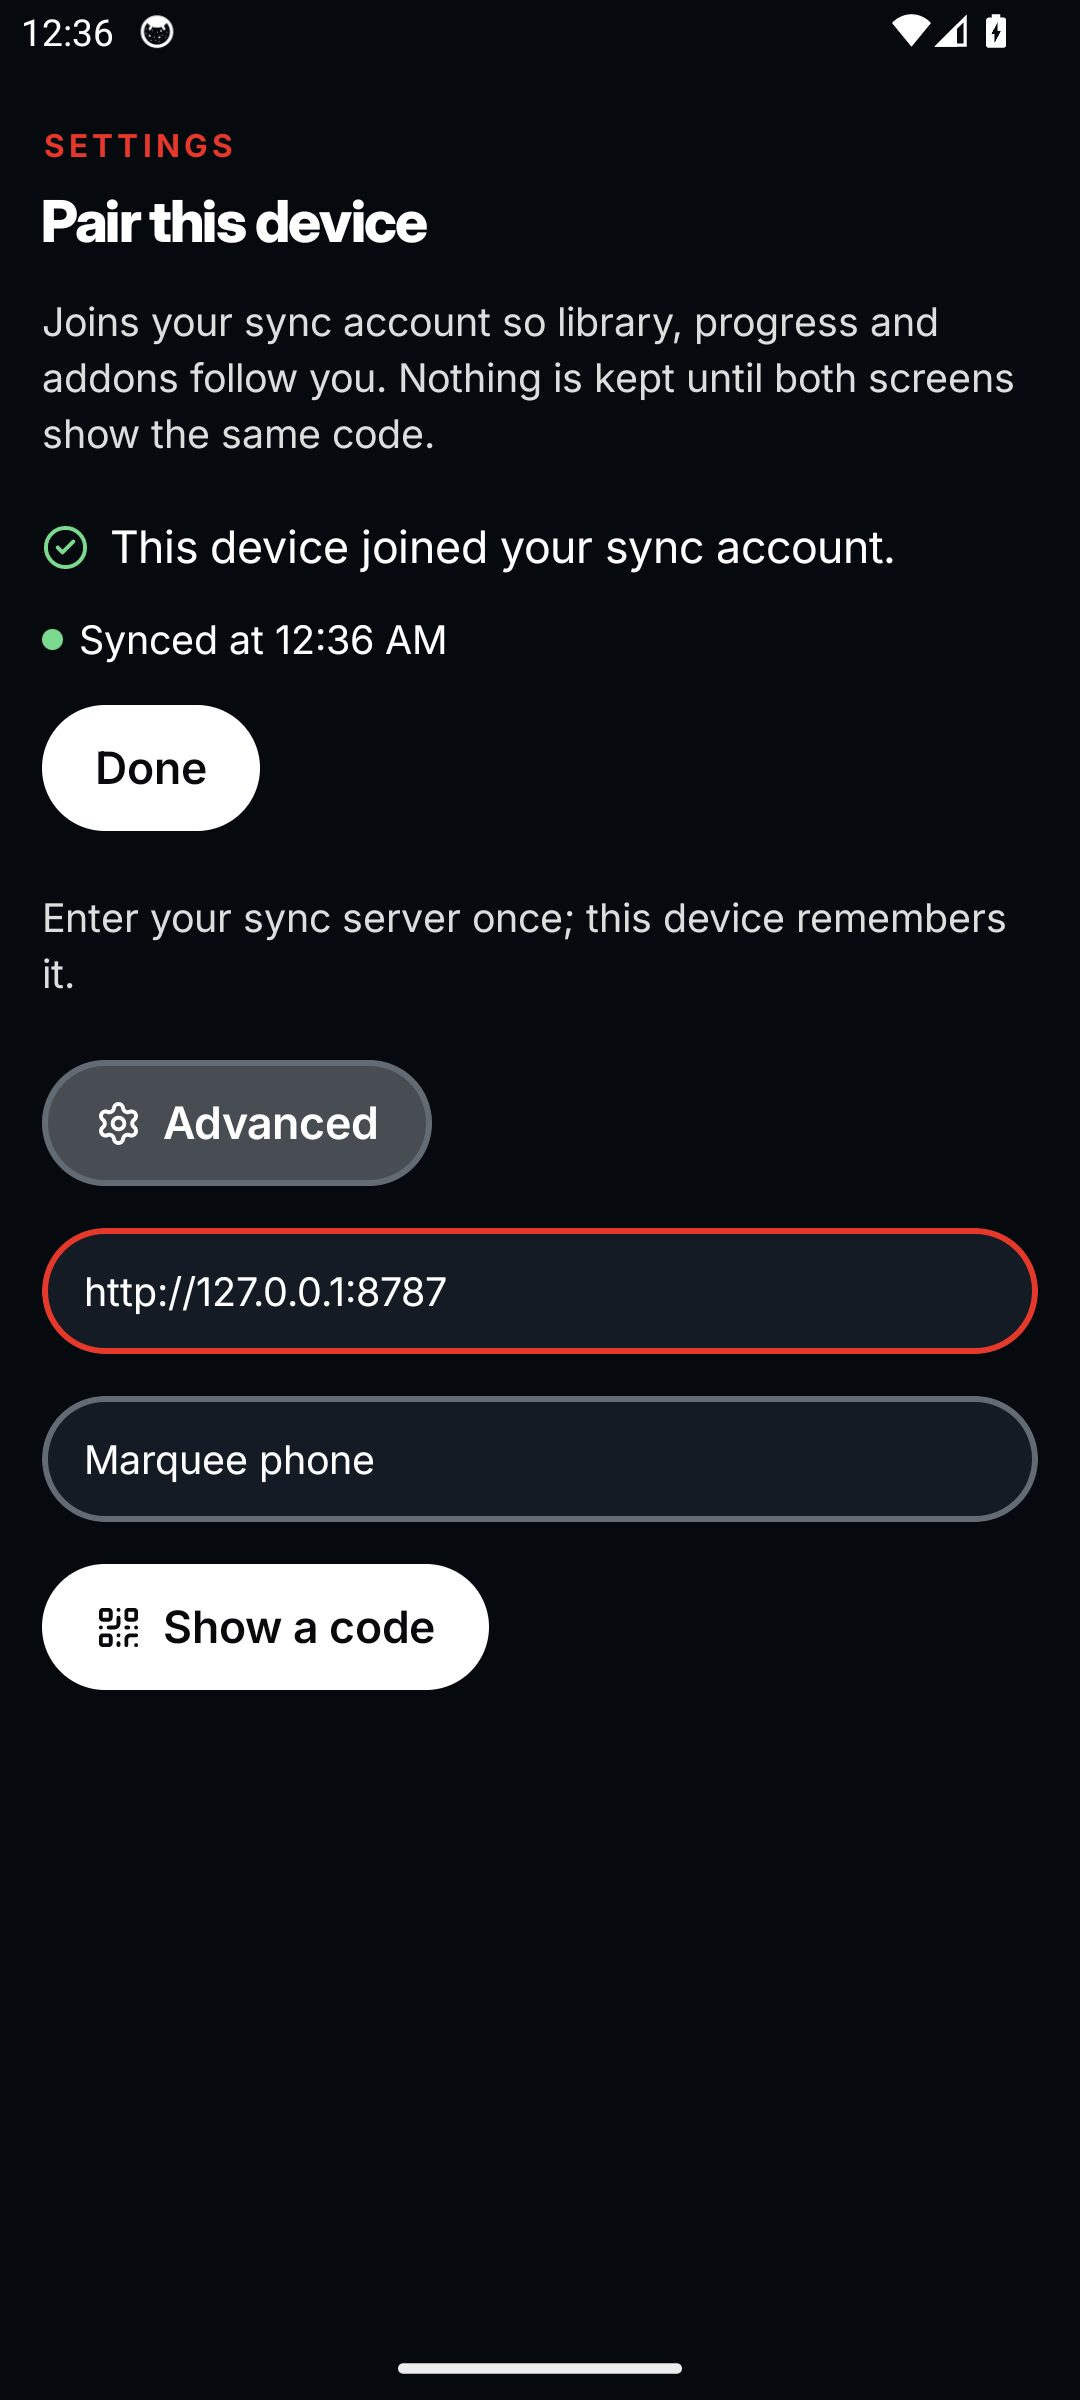
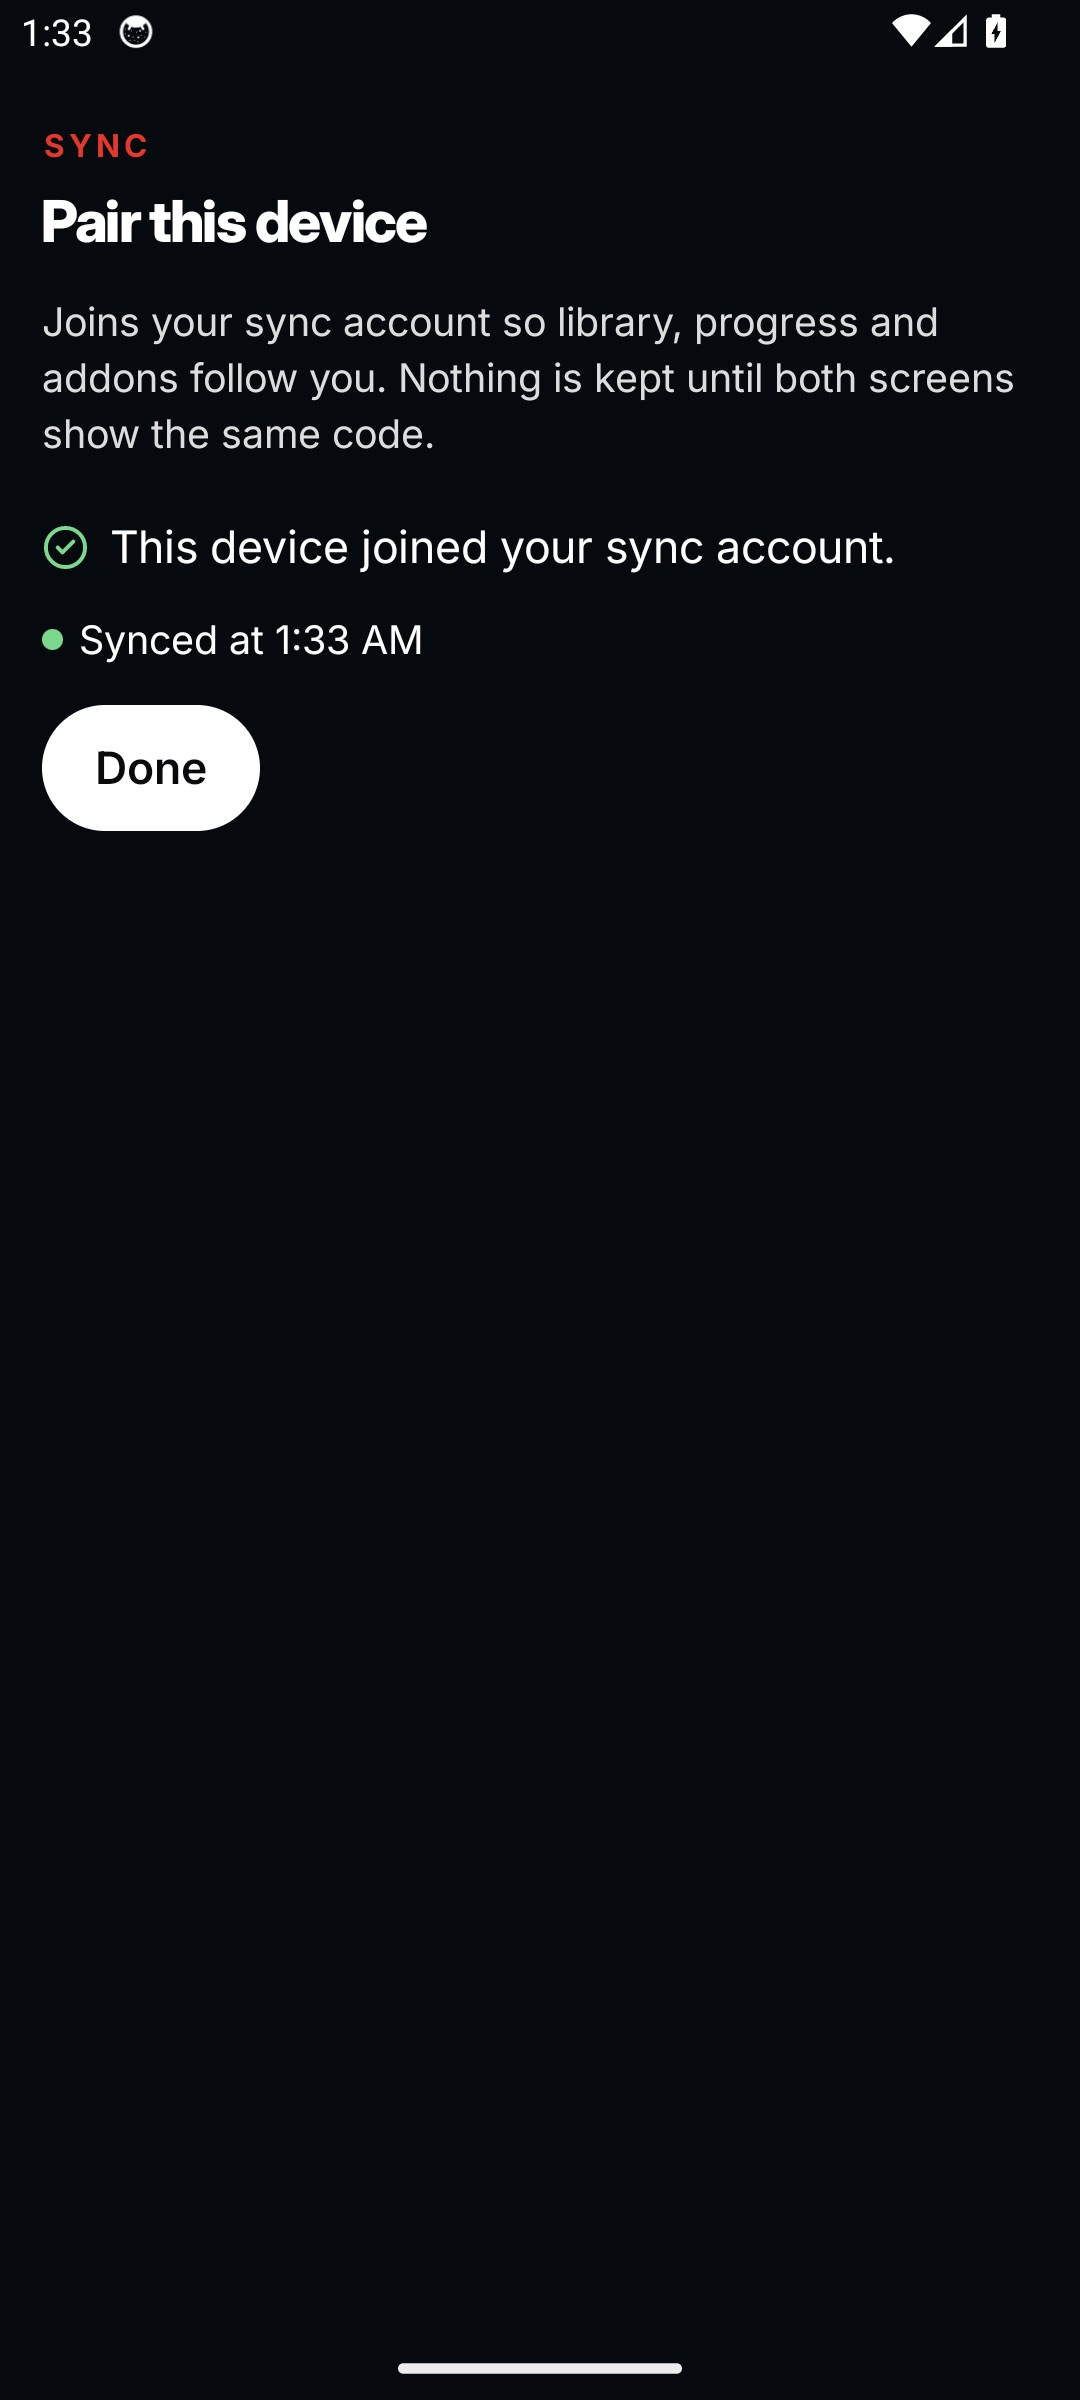
feat(android): join a sync account from the first screen
- onboarding gains "I already use Marquee", opening Pair this device;
  Done from there goes Home
- the three doors share the TV width at one height
- once joined, the pairing page shows the result and Done only, so no
  second pairing starts from it; its eyebrow says Sync

diff --git a/apps/android/app/src/main/kotlin/app/marquee/android/SyncScreens.kt b/apps/android/app/src/main/kotlin/app/marquee/android/SyncScreens.kt
@@ -139,7 +139,7 @@ fun PairingScreen(
     ) {
         item(key = "head") {
             Column(verticalArrangement = Arrangement.spacedBy(Marquee.space.s)) {
-                BrowseHeader("Settings", "Pair this device")
+                BrowseHeader("Sync", "Pair this device")
                 MqText(
                     "Joins your sync account so library, progress and addons follow you. Nothing is kept until both " +
                         "screens show the same code.",
@@ -156,30 +156,37 @@ fun PairingScreen(
                 }
             }
         }
-        if (known.isEmpty()) item(key = "once") { Note("Enter your sync server once; this device remembers it.") }
-        item(key = "advanced") {
-            Column(
-                Modifier.padding(horizontal = Marquee.safe.side).widthIn(max = 900.dp),
-                verticalArrangement = Arrangement.spacedBy(Marquee.space.s),
-            ) {
-                SecondaryButton("Advanced", { advanced = !advanced }, icon = Icons.Settings, selected = advanced)
-                if (advanced) {
-                    MqTextField(
-                        server,
-                        { server = it },
-                        label = "Sync server",
-                        placeholder = "https://sync.example.org",
-                        keyboardOptions = KeyboardOptions(keyboardType = KeyboardType.Uri, imeAction = ImeAction.Next),
-                    )
-                    if (badAddress) {
-                        Note(
-                            "Enter the address without a user name or password.",
-                            failed = true,
-                            side = 0.dp,
+        // Once joined, the page is the result and Done: no second pairing starts from it.
+        val joined = holder.view?.snapshot is PairingSnapshot.Joined
+        if (known.isEmpty() && !joined) {
+            item(key = "once") { Note("Enter your sync server once; this device remembers it.") }
+        }
+        if (!joined) {
+            item(key = "advanced") {
+                Column(
+                    Modifier.padding(horizontal = Marquee.safe.side).widthIn(max = 900.dp),
+                    verticalArrangement = Arrangement.spacedBy(Marquee.space.s),
+                ) {
+                    SecondaryButton("Advanced", { advanced = !advanced }, icon = Icons.Settings, selected = advanced)
+                    if (advanced) {
+                        MqTextField(
+                            server,
+                            { server = it },
+                            label = "Sync server",
+                            placeholder = "https://sync.example.org",
+                            keyboardOptions =
+                                KeyboardOptions(keyboardType = KeyboardType.Uri, imeAction = ImeAction.Next),
                         )
+                        if (badAddress) {
+                            Note(
+                                "Enter the address without a user name or password.",
+                                failed = true,
+                                side = 0.dp,
+                            )
+                        }
+                        MqTextField(name, { name = it }, label = "This device", placeholder = "Marquee")
+                        PrimaryButton("Show a code", begin, icon = Icons.QrCode, enabled = server.isNotBlank())
                     }
-                    MqTextField(name, { name = it }, label = "This device", placeholder = "Marquee")
-                    PrimaryButton("Show a code", begin, icon = Icons.QrCode, enabled = server.isNotBlank())
                 }
             }
         }

diff --git a/apps/android/app/src/main/kotlin/app/marquee/android/Onboarding.kt b/apps/android/app/src/main/kotlin/app/marquee/android/Onboarding.kt
@@ -4,10 +4,13 @@ import androidx.compose.foundation.background
 import androidx.compose.foundation.border
 import androidx.compose.foundation.layout.Arrangement
 import androidx.compose.foundation.layout.Column
+import androidx.compose.foundation.layout.IntrinsicSize
 import androidx.compose.foundation.layout.Row
 import androidx.compose.foundation.layout.WindowInsets
+import androidx.compose.foundation.layout.fillMaxHeight
 import androidx.compose.foundation.layout.fillMaxSize
 import androidx.compose.foundation.layout.fillMaxWidth
+import androidx.compose.foundation.layout.height
 import androidx.compose.foundation.layout.heightIn
 import androidx.compose.foundation.layout.padding
 import androidx.compose.foundation.layout.systemBars
@@ -47,14 +50,17 @@ private const val CINEMETA = "https://v3-cinemeta.strem.io/manifest.json"
 
 /**
  * A new user's first screen, one decision: how to begin. "I use Stremio" brings a library over (only
- * offered when [onImport] is given), "Start fresh" installs the standard catalog. "Browse first" skips
- * both. Nothing is typed here: adding a source is a later step, and on TV it never asks for a keyboard.
+ * offered when [onImport] is given), "Start fresh" installs the standard catalog, and "I already use
+ * Marquee" joins that device's sync account (only offered when [onPair] is given). "Browse
+ * first" skips them. Nothing is typed here: adding a source is a later step, and on TV it never asks
+ * for a keyboard.
  */
 @Composable
 fun OnboardingScreen(
     session: CoreSession,
     onDone: () -> Unit,
     onImport: (() -> Unit)? = null,
+    onPair: (() -> Unit)? = null,
 ) {
     val tv = Marquee.form == Form.Tv
     val scope = rememberCoroutineScope()
@@ -129,11 +135,22 @@ fun OnboardingScreen(
                     door,
                     first.takeIf { onImport == null },
                 )
+                onPair?.let {
+                    Door(
+                        "I already use Marquee",
+                        "Join your other device's sync account with a code. Library and addons follow.",
+                        Icons.QrCode,
+                        it,
+                        door,
+                        null,
+                    )
+                }
             }
+            val single = onImport == null && onPair == null
             if (tv) {
-                // Two doors share the width; a single one keeps the width of a card, not of the screen.
-                Row(horizontalArrangement = Arrangement.spacedBy(Marquee.space.l)) {
-                    doors(if (onImport == null) Modifier.widthIn(max = 640.dp) else Modifier.weight(1f))
+                // The doors share the width; a single one keeps the width of a card, not of the screen.
+                Row(Modifier.height(IntrinsicSize.Min), horizontalArrangement = Arrangement.spacedBy(Marquee.space.l)) {
+                    doors(if (single) Modifier.widthIn(max = 640.dp) else Modifier.weight(1f).fillMaxHeight())
                 }
             } else {
                 Column(verticalArrangement = Arrangement.spacedBy(Marquee.space.s)) { doors(Modifier.fillMaxWidth()) }
@@ -155,7 +172,7 @@ fun OnboardingScreen(
     }
 }
 
-/** One of the two ways to begin: a card with an icon, a serif title and one line. */
+/** One of the ways to begin: a card with an icon, a title and one line. */
 @Composable
 private fun Door(
     title: String,

diff --git a/apps/android/app/src/main/kotlin/app/marquee/android/AppRoot.kt b/apps/android/app/src/main/kotlin/app/marquee/android/AppRoot.kt
@@ -177,7 +177,12 @@ private fun AppNav(
             entryProvider =
                 entryProvider {
                     entry<Route.Onboarding> {
-                        OnboardingScreen(session, onDone = ::arrive, onImport = { backStack.add(Route.Import) })
+                        OnboardingScreen(
+                            session,
+                            onDone = ::arrive,
+                            onImport = { backStack.add(Route.Import) },
+                            onPair = { backStack.add(Route.Pairing) },
+                        )
                     }
                     entry<Route.Import> { ImportScreen(session, onDone = ::arrive) }
                     entry<Route.Home> {
@@ -210,11 +215,11 @@ private fun AppNav(
                     entry<Route.Debrid> { DebridScreen(session) }
                     entry<Route.HomeRows> { HomeRowsScreen(session) }
                     entry<Route.Pairing> {
+                        // From onboarding, a join is the way in: Done goes Home. From Settings it goes back.
                         PairingScreen(session, sync, onDone = {
-                            if (backStack.size >
-                                1
-                            ) {
-                                backStack.removeAt(backStack.lastIndex)
+                            when {
+                                backStack.firstOrNull() == Route.Onboarding -> arrive()
+                                backStack.size > 1 -> backStack.removeAt(backStack.lastIndex)
                             }
                         })
                     }
